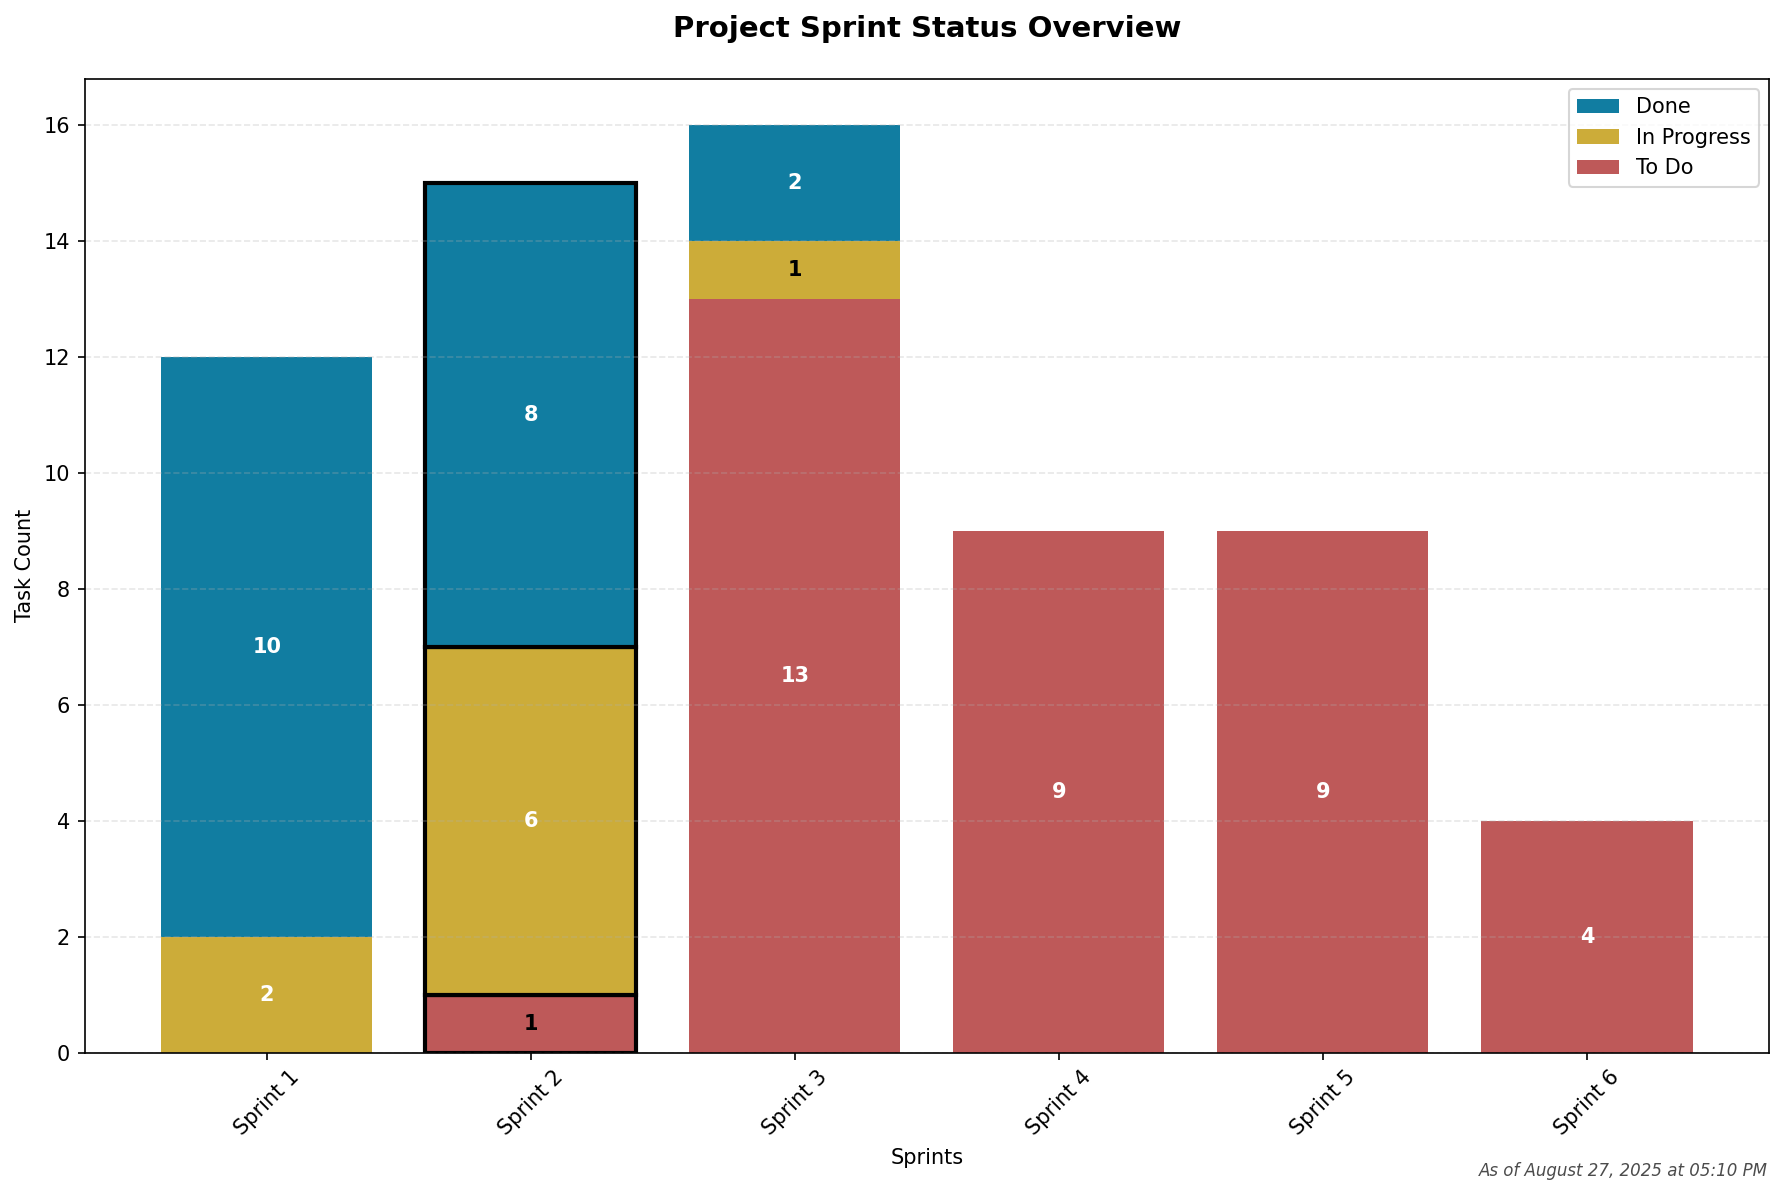
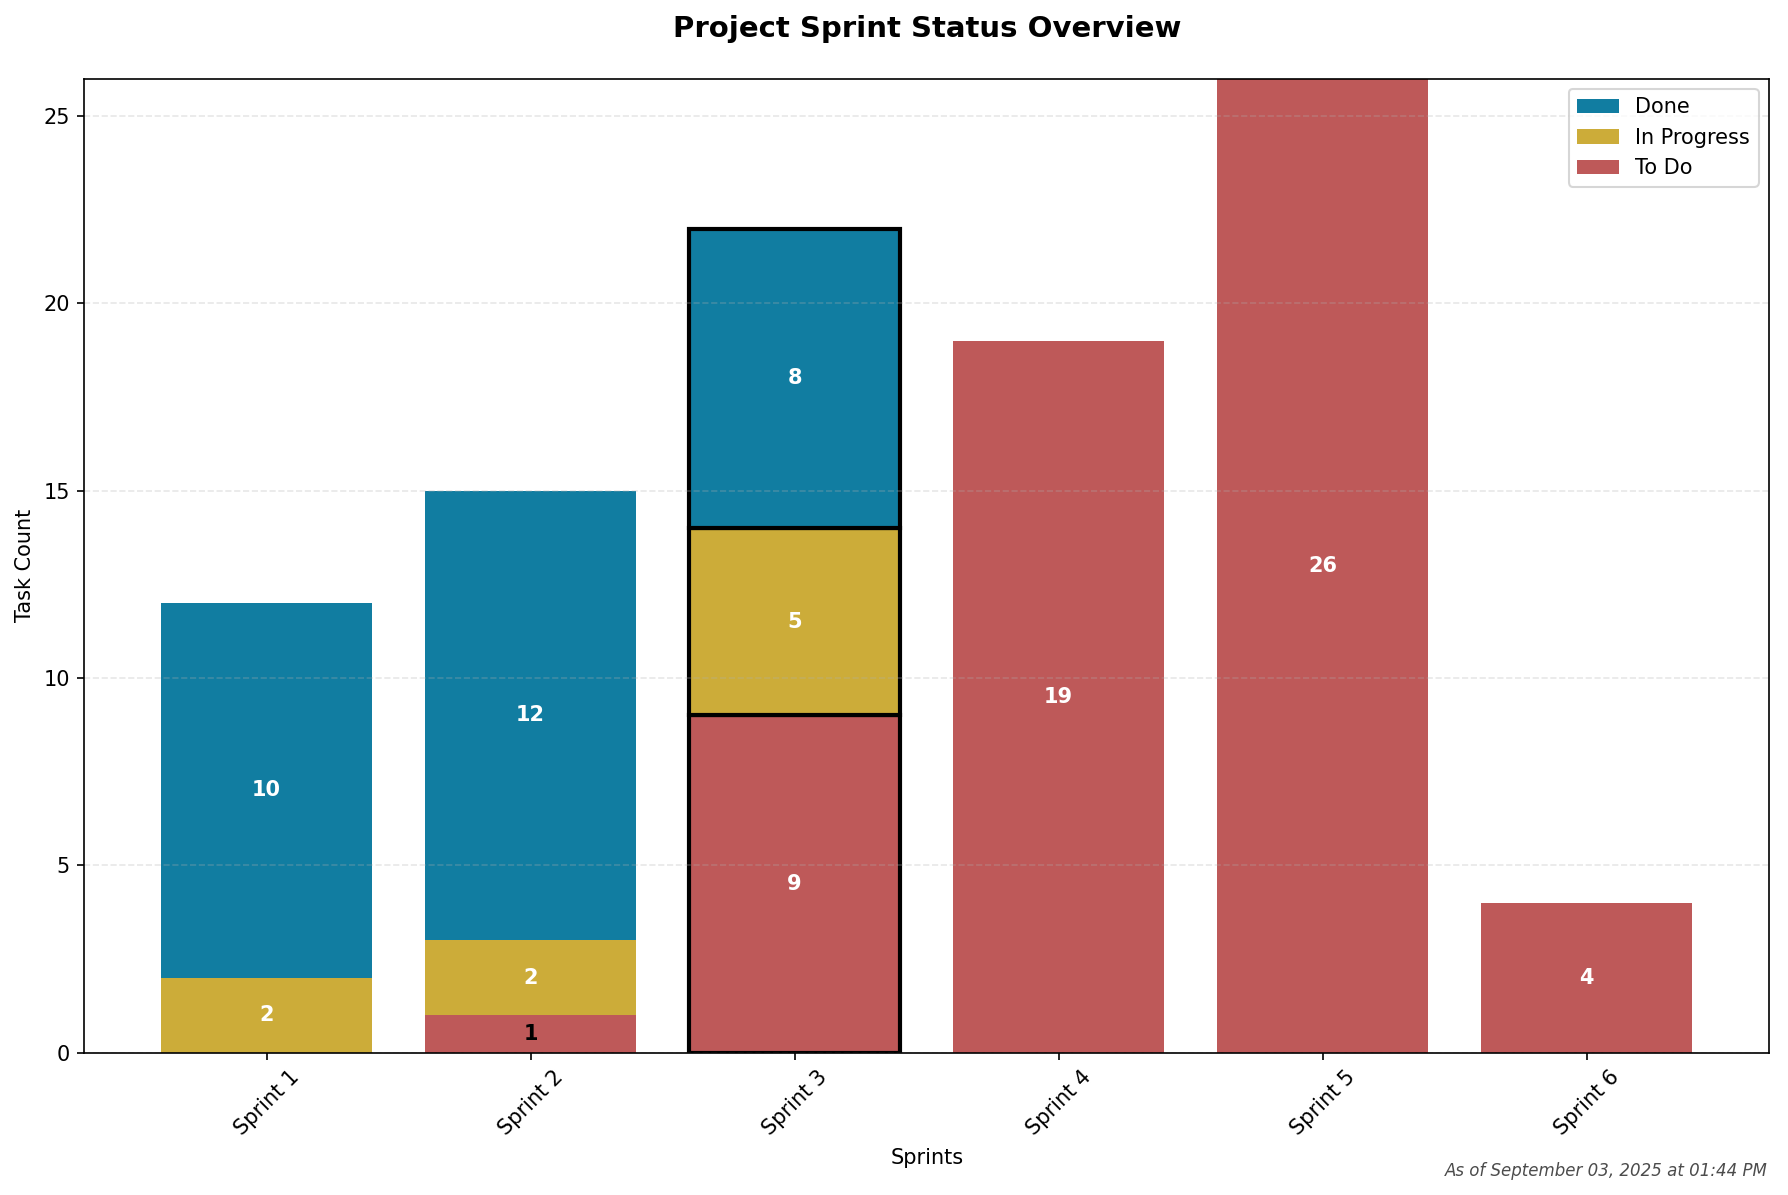
Update sprint progress and goals in tracker
Revised sprint status table and progress notes to reflect completed feature engineering, updated ETL and churn logic tasks, and clarified upcoming goals for model development and enhancement. Added more detailed objectives for feature selection, model training, explainability, and customer segmentation in Sprints 4 and 5. Updated sprint_status_chart.png to reflect current progress.

diff --git a/project_tracker.md b/project_tracker.md
@@ -24,8 +24,8 @@
 | Sprint | Status         | % Complete | Notes                          |
 |--------|----------------|------------|--------------------------------|
 | 1      | ✅ Complete     | 95%       | AWS Setup pending with Jake Jones |
-| 2      | 🔄 In Progress  | 85%       | Hybrid Sprint 2/3 approach     |
-| 3      | 🔄 Started Early| 40%       | Feature engineering advanced    |
+| 2      | ✅ Complete     | 95%       | Feature engineering and data processing complete, interaction data not included in feature set |
+| 3      | 🔄 In Progress  | 55%       | ETL infrastructure, churn logic, and data validation in progress |
 | 4      | ⏳ Not Started  | 0%        |                                |
 | 5      | ⏳ Not Started  | 0%        |                                |
 | 6      | ⏳ Not Started  | 0%        |                                |
@@ -87,7 +87,7 @@
     
 - [x] Define SQL query/joins for main data ingestion
     - [x] Customer + Account Data
-    - [~] Transaction Data (80% complete - debugging balance discrepancies)
+    - [x] Transaction Data
     - [ ] Interaction Data
     - [x] Join/Ingest raw tables into feature store staging and perform quality checks
     - [x] Implement point-in-time joins for first feature group
@@ -95,9 +95,9 @@
 - [x] Complete demographic/account feature engineering (advanced from Sprint 3)
 - [x] Meet with Jake Jones to align on system needs, pipeline endpoints, and timeline
 - [x] Begin transaction feature engineering development 
-    - [~] Add time-window aggregations (e.g. 30/60/90 day summaries)
-- [~] Draft feature store schema (~200 features Customer+Acct+Transaction)
-    - [~] Generate customer snapshots
+    - [x] Add time-window aggregations (e.g. 30/60/90 day summaries)
+- [x] Draft feature store schema (~200 features Customer+Acct+Transaction)
+    - [x] Generate customer snapshots
 - [~] Validate data output with sample customers (100)
 
 ### Weekly Check-In *(Aug 20 & Aug 28)*
@@ -106,10 +106,10 @@
 - **Adjustments Made:** Advanced feature engineering while data structure was fresh, reshuffled Sprint 2/3 tasks for better flow.
 
 ### End of Sprint Debrief
-- **Completed Work:**  
-- **Work Pushed to Next Sprint:**  
-- **Key Learnings:**  Early feature engineering while data structure was fresh proved highly effective
-- **Next Sprint Priorities:**  Focus on PySpark conversion and production pipeline development
+- **Completed Work:** Core feature engineering, SQL-based data processing, feature schema design
+- **Work Pushed to Next Sprint:**
+- **Key Learnings:** Early feature engineering while data structure was fresh was a better workflow.
+- **Next Sprint Priorities:** Focus on PySpark conversion and production pipeline development
 
 ---
 
@@ -118,25 +118,30 @@
 ### Sprint Goals
 - [x] Advanced feature engineering (completed early in Sprint 2)
     - [x] Derive demographic and account features (156 features)
-    - [~] Add time-window aggregations
-- [ ] Define & document input-output data contract (schema enforcement and partition strategy)
-    - [ ] Start Feature Store data dictionary documentation (markdown >> Confluence)
-- [ ] Convert SQL work to PySpark + AWS Glue for automated ETL
-    - [ ] Develop master config and python class for Spark session and DB connections
-    - [ ] Choose feature store snapshot frequency
-    - [ ] Implement initial historical backfill operation
-- [ ] Build automated data validation checks and logging with broader population (beyond 100-person samples)
-- [ ] Draft churn definition with input from stakeholders/domain experts
-- [ ] Develop generate_churn_label() function using lookahead window
+    - [x] Add time-window aggregations
+- [x] Define & document input-output data contract (schema enforcement and partition strategy)
+    - [~] Start Feature Store data dictionary documentation (markdown >> Confluence)
+- [~] Convert SQL work to PySpark + AWS Glue for automated ETL
+    - [x] Develop master config and python class for Spark session and DB connections
+    - [x] Choose feature store snapshot frequency
+- [x] Implement initial historical backfill operation
+- [~] Build automated data validation checks and logging with broader population (beyond 100-person samples)
+- [~] Draft churn definition with input from stakeholders/domain experts
+- [x] Develop generate_churn_label() function using lookahead window
     - [ ] _get_eligible_customers() (minimum tenure, only data up until churn event, etc)
-    - [ ] Create reference document on decision-making and functionality
-- [ ] Feature store creation in S3 (with historical backfill for initial setup)
+    - [~] Create reference documents on decision-making and functionality
+- [ ] Feature store creation in S3
+    - [ ] Execute historical backfill ETL for 3-month training dataset
+    - [ ] Configure automated ETL scheduling (EventBridge?)
 - [ ] Exploratory Data Analysis with data distribution and correlation focus
-
+- [ ] Validate churn criteria with business stakeholders (schedule meeting)
+- [ ] Complete comprehensive EDA with feature distributions and correlations
+- [ ] Test full population data processing (beyond sample validation)
+- [ ] Refine data quality scoring and drift detection 
 
 ### Weekly Check-In *(Sep 5 & Sep 12)*
-- **Progress Summary:**  
-- **Blockers / Risks Identified:**  
+- **Progress Summary:** AWS Glue ETL infrastructure bagan, feature store schema set, churn logic framework in progress
+- **Blockers / Risks Identified:** Churn criteria need stakeholder validation, EDA pending, S3 still not deployed for testing
 - **Adjustments Made:** Sprint 2/3 hybrid approach - feature engineering advanced early to maintain momentum
 
 ### End of Sprint Debrief
@@ -150,15 +155,25 @@
 ## ⏳ Sprint 4: Model Development *(Sep 15–Sep 28)*
 
 ### Sprint Goals
-- [ ] Address feature complexity and potential dimensionality reduction needs
-- [ ] Set up model training and evaluation pipeline
-    - [ ] Develop ModelTrainingService()
-        - [ ] Automate hyperparameter selection
-    - [ ] Develop ModelEvaluationService()
-    - [ ] Develop ModelInferenceService()
-- [ ] Compare model performance across parameter changes (feature windows, churn definitions, prediction horizon)
-- [ ] Define model metadata storage needs (versioning, parameters)
-- [ ] Store predictions in feature store or model registry table
+- [ ] Feature selection and dimensionality analysis
+    - [ ] Correlation analysis and multicollinearity detection
+    - [ ] Feature importance baseline using simple models
+    - [ ] Identify optimal feature subset for model training
+- [ ] Baseline churn prediction model development
+    - [ ] XGBoost model implementation with default parameters
+    - [ ] Logistic regression benchmark model
+    - [ ] Cross-validation framework (5-fold stratified?)
+    - [ ] Model evaluation metrics (precision, recall, F1, AUC-ROC)
+- [ ] Model training and evaluation pipeline
+    - [ ] Automated train/validation/test split with temporal and customer-level considerations
+    - [ ] Model performance comparison framework
+    - [ ] Prediction storage in feature store with model versioning
+- [ ] Initial hyperparameter optimization
+    - [ ] Grid search for key XGBoost parameters
+    - [ ] Learning curve analysis for optimal training data size
+- [ ] Model metadata and versioning system
+    - [ ] Track model parameters, performance metrics, and training data versions
+    - [ ] Integration with feature store versioning
 
 ### Weekly Check-In *(Sep 19 & Sep 26)*
 - **Progress Summary:**  
@@ -176,15 +191,32 @@
 ## ⏳ Sprint 5: Model Enhancement – Pipeline Tuning, SHAP explainability, and Customer Segmenation *(Sep 29–Oct 12)*
 
 ### Sprint Goals
-- [ ] Final model and feature tuning
-- [ ] Develop feature importance and SHAPExplainabilityService()
-- [ ] Perform customer segmentation (UMAP/PCA + HDBSCAN)
-    - [ ] Automate or set parameter selection based on heuristics
-    - [ ] Store cluster IDs in feature store or model registry
-    - [ ] Store SHAP values in feature store or model registry
-    - [ ] Output timestamped-versioned global feature importances
-- [ ] Create model pipeline documentation, including parameter definitions and explanation
-- [ ] Create SHAP Feature Importance documentation
+- [ ] Advanced model optimization and tuning
+    - [ ] Bayesian hyperparameter optimization (Optuna or similar)
+    - [ ] Feature engineering iteration based on model insights
+    - [ ] Class imbalance handling (SMOTE, class weights, threshold tuning)
+    - [ ] Model ensemble evaluation (XGBoost + XGBoost(Cluster_Features) + Logistic Regression)
+- [ ] SHAP explainability framework implementation
+    - [ ] Global feature importance analysis across all customers
+    - [ ] Individual customer prediction explanations
+    - [ ] Feature interaction discovery and visualization
+    - [ ] SHAP value storage in feature store with model lineage
+    - [ ] Business-friendly explanation templates
+- [ ] Customer segmentation analysis
+    - [ ] UMAP/PCA dimensionality reduction for behavioral features
+    - [ ] HDBSCAN clustering with automatic parameter selection
+    - [ ] Segment characterization and churn risk profiling
+    - [ ] Cluster assignment storage and versioning
+    - [ ] Business insights and segment-specific model performance
+- [ ] Model validation and business impact assessment
+    - [ ] Performance analysis across customer segments
+    - [ ] Cost-benefit analysis of churn intervention
+    - [ ] Model stability testing across different time periods
+    - [ ] A/B testing framework design for model deployment
+- [ ] Documentation and knowledge transfer preparation
+    - [ ] Model methodology documentation
+    - [ ] SHAP interpretation guide for business stakeholders
+    - [ ] Customer segmentation insights summary
 
 ### Weekly Check-In *(Oct 3 & Oct 9)*
 - **Progress Summary:**  
